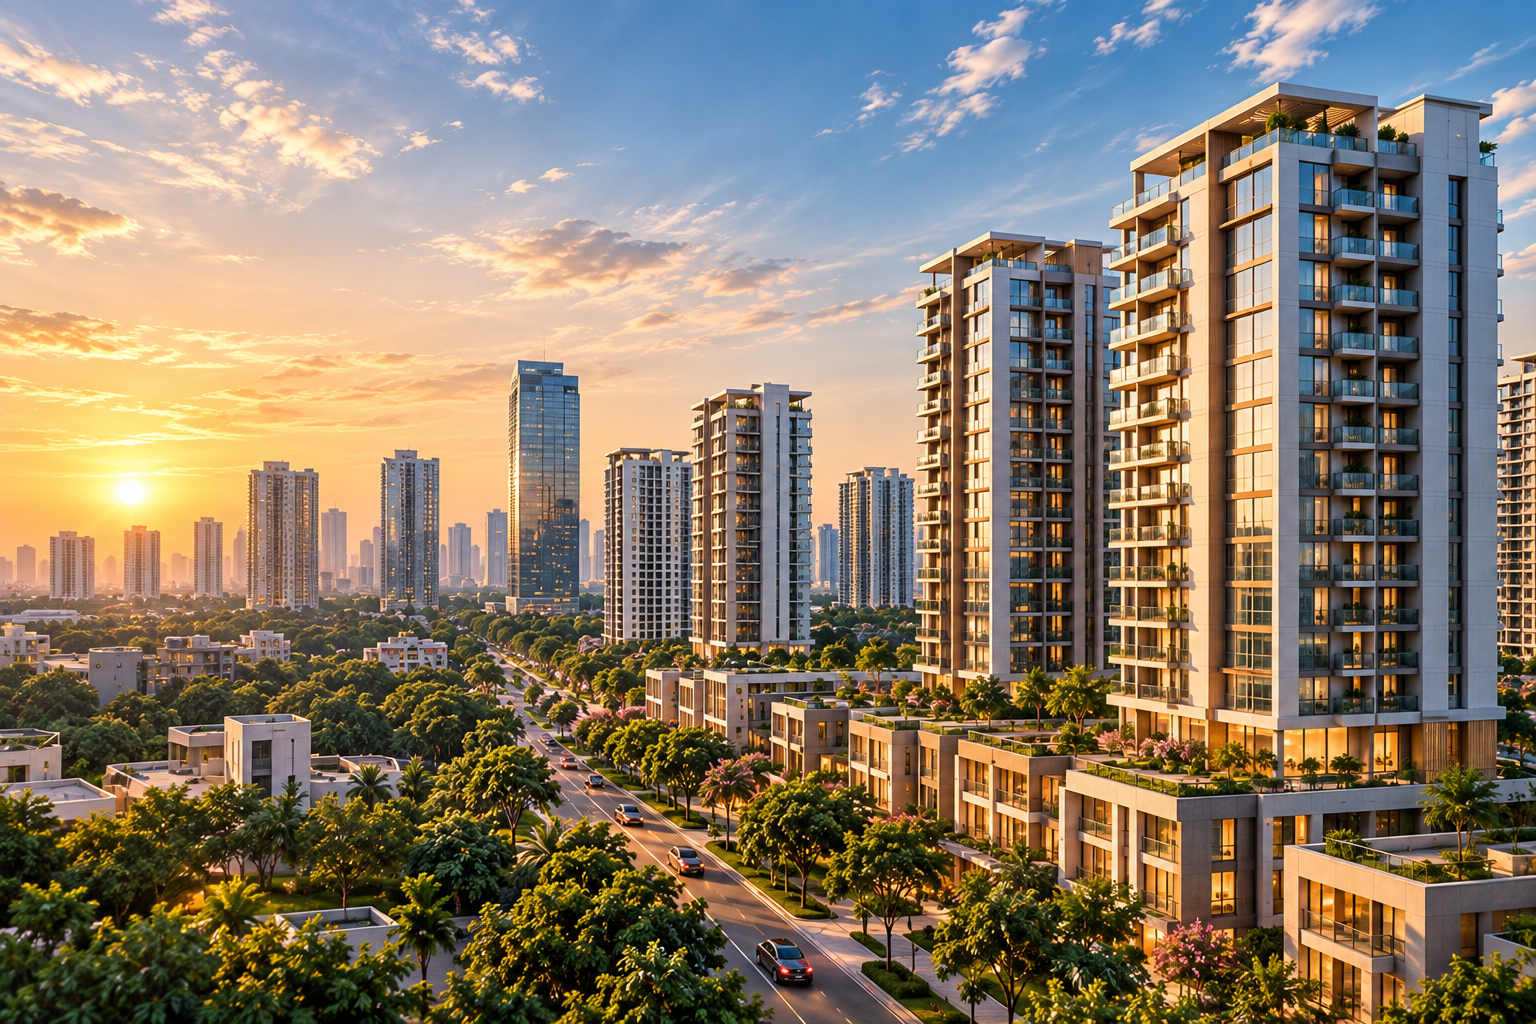
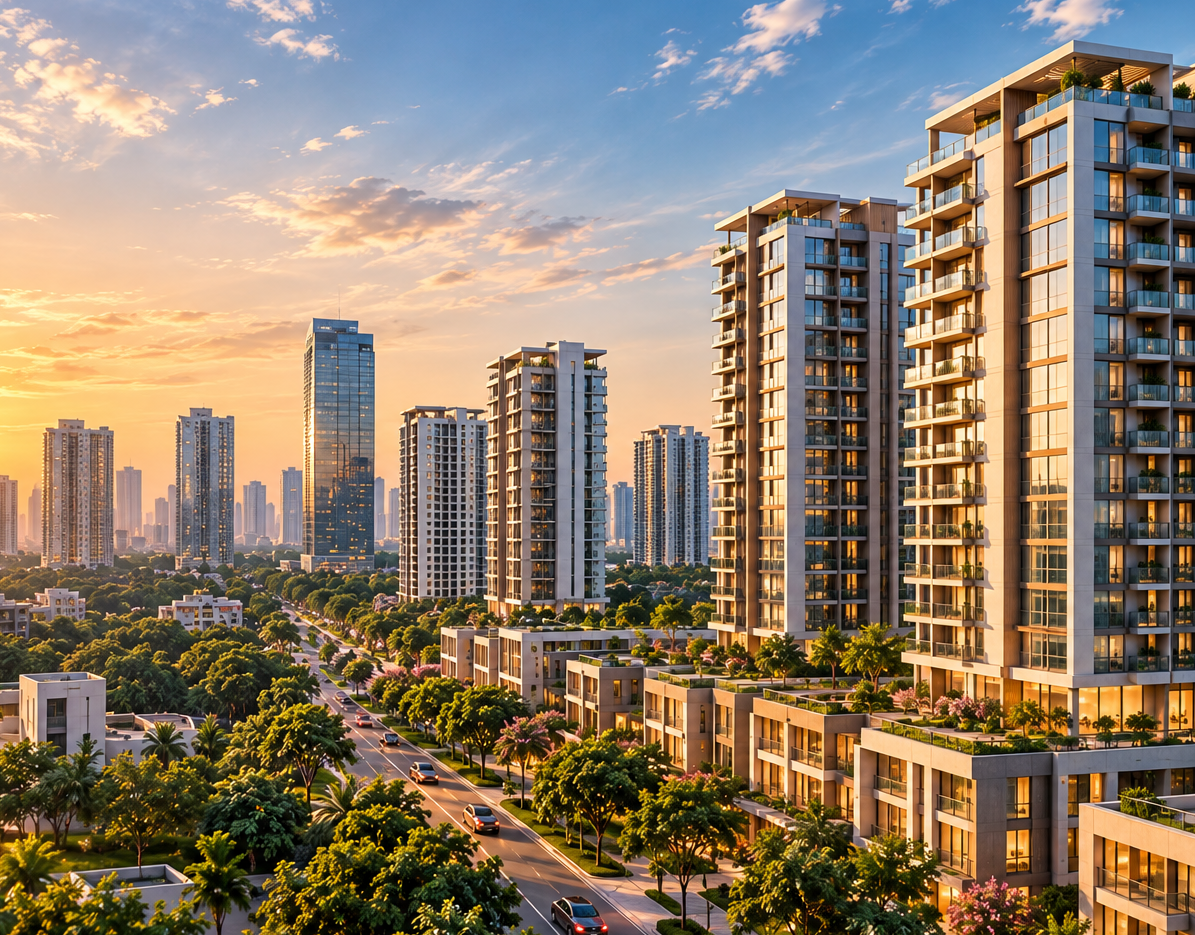
fix(insights): match Market intelligence card to proposed design (Image 2)

diff --git a/app/globals.css b/app/globals.css
@@ -114,21 +114,21 @@
 
 /* Perspectives worth reading - Visual guide cards */
 .insights-perspective-grid{display:grid;grid-template-columns:repeat(2,1fr);gap:clamp(22px,2.4vw,32px);max-width:1280px;margin:0 auto}
-.perspective-card{background:var(--paper);border:1px solid rgba(196,152,84,.45);border-radius:18px;overflow:hidden;position:relative;height:320px;box-shadow:0 6px 24px rgba(16,45,39,.04);transition:transform .45s var(--ease),box-shadow .45s var(--ease),border-color .4s var(--ease)}
-.perspective-card:hover{transform:translateY(-4px);box-shadow:0 18px 45px rgba(16,45,39,.09);border-color:rgba(196,152,84,.75)}
+.perspective-card{background:var(--paper);border:1px solid rgba(196,152,84,.55);border-radius:22px;overflow:hidden;position:relative;height:330px;box-shadow:0 8px 28px rgba(16,45,39,.05);transition:transform .45s var(--ease),box-shadow .45s var(--ease),border-color .4s var(--ease)}
+.perspective-card:hover{transform:translateY(-4px);box-shadow:0 20px 48px rgba(16,45,39,.1);border-color:rgba(196,152,84,.85)}
 .perspective-card-img-wrap{position:absolute;inset:0;width:100%;height:100%;overflow:hidden;z-index:1}
-.perspective-card-img{width:100%;height:100%;object-fit:cover;object-position:right center;display:block;transition:transform .8s var(--ease)}
+.perspective-card-img{width:100%;height:100%;object-fit:cover;display:block;transition:transform .8s var(--ease)}
 .perspective-card:hover .perspective-card-img{transform:scale(1.04)}
 .perspective-curve-wrap{position:absolute;inset:0;width:100%;height:100%;pointer-events:none;z-index:2}
 .perspective-curve-svg{width:100%;height:100%;display:block}
-.perspective-card-content{position:relative;z-index:3;width:43%;height:100%;padding:34px 18px 30px 36px;display:flex;flex-direction:column;justify-content:flex-start;box-sizing:border-box}
-.perspective-card-header{display:flex;align-items:center;gap:12px;margin-bottom:26px}
-.perspective-card-num{font-family:var(--serif);font-size:15px;font-weight:500;color:var(--gold);letter-spacing:.04em;line-height:1}
-.perspective-card-line{display:block;width:38px;height:1px;background:var(--gold);opacity:.85}
-.perspective-card-title{font-family:var(--serif);font-size:clamp(30px,2.4vw,35px);line-height:1.04;font-weight:500;color:var(--ink);margin:0 0 16px;letter-spacing:-.025em}
-.perspective-card-desc{font-size:12.5px;line-height:1.55;color:#5c6f69;margin:0;max-width:235px}
-@media(max-width:980px){.insights-perspective-grid{grid-template-columns:1fr;max-width:640px}.perspective-card{height:305px}.perspective-card-content{width:44%}}
-@media(max-width:640px){.perspective-card{display:flex;flex-direction:column;height:auto}.perspective-card-img-wrap{position:relative;width:100%;height:215px;order:-1}.perspective-curve-wrap{display:none}.perspective-card-content{width:100%;height:auto;padding:26px 22px;background:var(--paper);border-top:1px solid rgba(196,152,84,.45)}.perspective-card-desc{max-width:100%}}
+.perspective-card-content{position:relative;z-index:3;width:44%;height:100%;padding:clamp(34px,2.8vw,42px) 20px 30px clamp(32px,2.8vw,42px);display:flex;flex-direction:column;justify-content:flex-start;box-sizing:border-box}
+.perspective-card-header{display:flex;align-items:center;gap:14px;margin-bottom:30px}
+.perspective-card-num{font-family:var(--serif);font-size:16px;font-weight:500;color:var(--gold);letter-spacing:.04em;line-height:1}
+.perspective-card-line{display:block;width:42px;height:1px;background:var(--gold);opacity:.85}
+.perspective-card-title{font-family:var(--serif);font-size:clamp(32px,2.5vw,38px);line-height:1.04;font-weight:500;color:var(--ink);margin:0 0 22px;letter-spacing:-.025em}
+.perspective-card-desc{font-size:12.5px;line-height:1.6;color:#5e716b;margin:0;max-width:220px}
+@media(max-width:980px){.insights-perspective-grid{grid-template-columns:1fr;max-width:640px}.perspective-card{height:310px}.perspective-card-content{width:46%}}
+@media(max-width:640px){.perspective-card{display:flex;flex-direction:column;height:auto}.perspective-card-img-wrap{position:relative;width:100%;height:220px;order:-1}.perspective-curve-wrap{display:none}.perspective-card-content{width:100%;height:auto;padding:28px 24px;background:var(--paper);border-top:1px solid rgba(196,152,84,.45)}.perspective-card-desc{max-width:100%}}
 
 /* Editorial Article Showcase (Why price isn't the same as value) */
 .article-showcase-section{padding:clamp(75px,8.5vw,130px) clamp(24px,5vw,60px);background:var(--paper)}

diff --git a/app/insights/page.tsx b/app/insights/page.tsx
@@ -11,6 +11,7 @@ const perspectiveGuides = [
     desc: "Clear, practical thinking for understanding Bhubaneswar's changing real estate landscape.",
     image: "/insights-market-intelligence.png",
     alt: "Market intelligence - Bhubaneswar urban landscape",
+    position: "right center",
   },
   {
     num: "02",
@@ -18,6 +19,7 @@ const perspectiveGuides = [
     desc: "Clear, practical thinking for understanding Bhubaneswar's changing real estate landscape.",
     image: "/insights-investment-thinking.png",
     alt: "Investment thinking - property investment and financial growth",
+    position: "70% center",
   },
   {
     num: "03",
@@ -25,6 +27,7 @@ const perspectiveGuides = [
     desc: "Clear, practical thinking for understanding Bhubaneswar's changing real estate landscape.",
     image: "/insights-location-guides.png",
     alt: "Location guides - prime corridors and masterplans",
+    position: "75% center",
   },
   {
     num: "04",
@@ -32,6 +35,7 @@ const perspectiveGuides = [
     desc: "Clear, practical thinking for understanding Bhubaneswar's changing real estate landscape.",
     image: "/insights-buying-guides.png",
     alt: "Buying guides - residential and commercial properties",
+    position: "32% center",
   },
 ];
 
@@ -94,6 +98,7 @@ export default function InsightsPage() {
                     src={item.image}
                     alt={item.alt}
                     loading="lazy"
+                    style={{ objectPosition: item.position }}
                     className="perspective-card-img"
                   />
                 </div>
@@ -106,11 +111,11 @@ export default function InsightsPage() {
                     className="perspective-curve-svg"
                   >
                     <path
-                      d="M -1,-1 L 44,-1 L 44,50 C 44,70 33,98 28,100 L -1,100 Z"
+                      d="M -1,-1 L 44,-1 L 44,50 C 44,75 34,95 28.5,100 L -1,100 Z"
                       fill="#faf7f0"
                     />
                     <path
-                      d="M 44,0 L 44,50 C 44,70 33,98 28,100"
+                      d="M 44,0 L 44,50 C 44,75 34,95 28.5,100"
                       fill="none"
                       stroke="#c49854"
                       strokeWidth="1.5"
